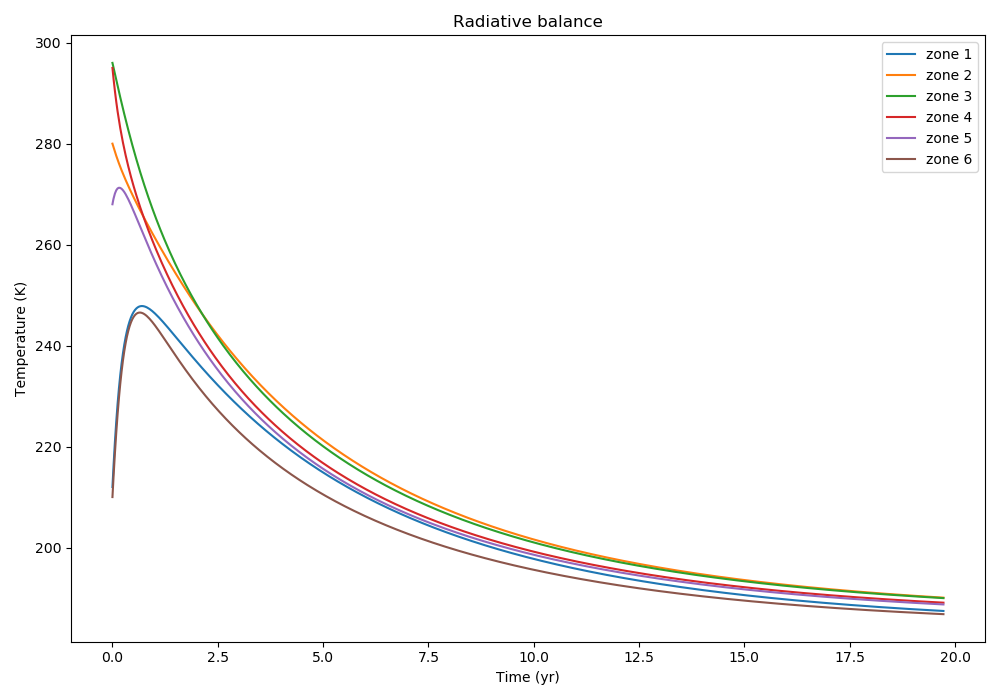
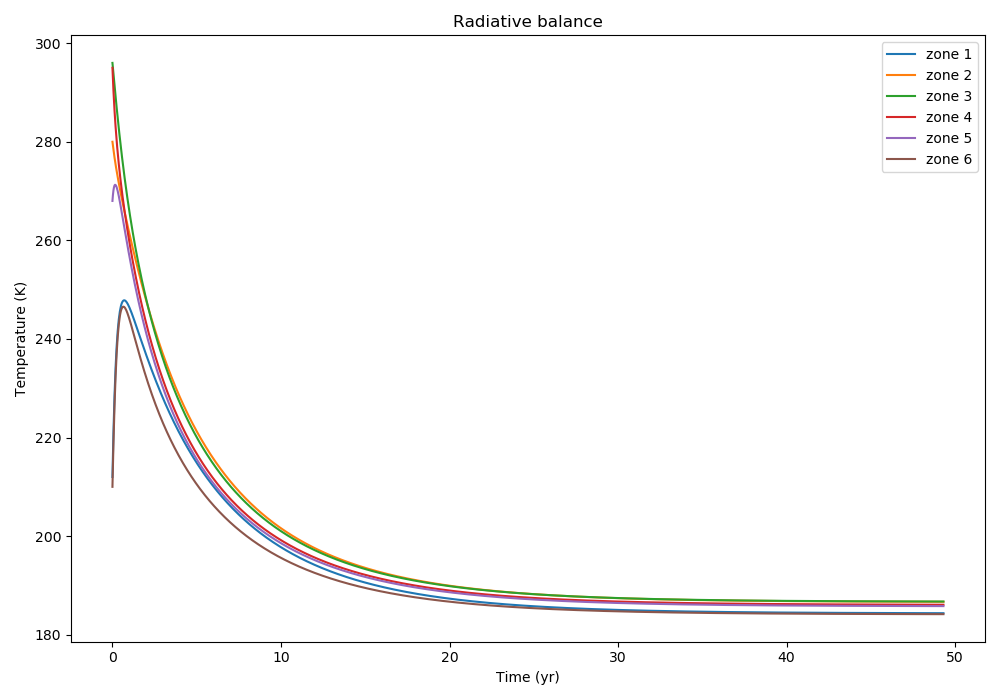
reorganized figures

diff --git a/utilities/volcanicforcing.py b/utilities/volcanicforcing.py
@@ -99,7 +99,7 @@ def create_phi_funcs(tt_max):
             xrange = (x>=j*30)*(x<=(j+1)*30)
             phi_k[j+3,i] = np.mean(phi_continuous[xrange,i]) # Calculate zonal average
     
-    plot_forcing(t,A,phi_k)
+    # plot_forcing(t,A,phi_k)
 
     t_span_long = np.arange(t_end,t_end_long,dt_long)
     phi_extension = np.array(list(map(lambda k: 1-(1-phi_k[k,-1])*np.exp(gamma*t[-1])*np.exp(-gamma*t_span_long),range(6))))

diff --git a/utilities/plotters.py b/utilities/plotters.py
@@ -37,7 +37,7 @@ def plot_model():
 def plot_model_withforcing():
     # Time interval for integration (in seconds)
     t_min = 0
-    t_max = 20*12*mon2sec
+    t_max = 50*12*mon2sec
     max_step = 1E6
 
     # Initial temperatures
